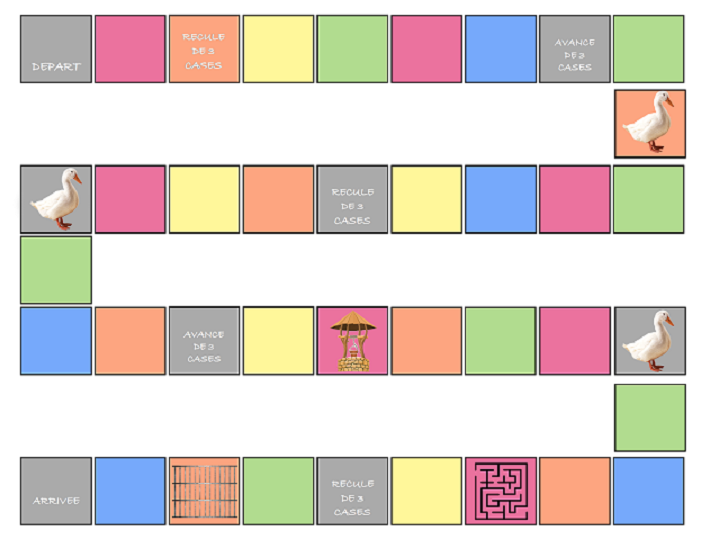
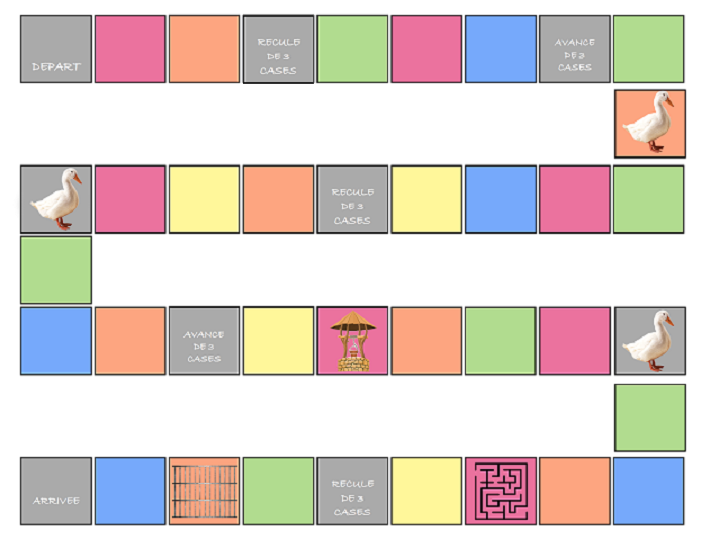
Add all traps (two don't work yet) Add text for indicate the players Minor update

Changed region(s): [[0.3361, 0.0, 0.4583, 0.1778], [0.2444, 0.0593, 0.3056, 0.1481]]

diff --git a/tray.py b/tray.py
@@ -5,6 +5,8 @@ import time
 from goose import Goose
 from constants import *
 
+BLACK = (0, 0, 0)
+
 
 class Tray:
     background_image_src = ""
@@ -30,6 +32,10 @@ class Tray:
     player_count = 0
     player_turn = 0
     players_grid = [1, 1, 1, 1]
+    player_trap_state = [0, 0, 0, 0]
+
+    trap_grids = ((4, 0), (8, 1), (10, 2), (15, 0), (19, 2), (23, 1), (25, 3), (29, 2), (33, 4), (35, 0), (37, 5))
+    win_grid = 39
 
     window = None
 
@@ -41,19 +47,25 @@ class Tray:
         self.player_count = player_count
         self.first_space = True
         self.fast_dice_animation = False
+        self.is_keyboard_deactivate = False
         pygame.init()
+        self.font = pygame.font.Font(None, 40)
+        self.text_to_render = None
         self.create_window()
 
     def update(self):
         self.check_pygame_events()
         self.draw_players()
+        if self.text_to_render is not None:
+            self.window.blit(self.text_to_render, (130, 255))
+        pygame.display.flip()
 
     def check_pygame_events(self):
         for event in pygame.event.get():
             if event.type == QUIT:
                 self.run = False
                 pass
-            if event.type == KEYDOWN:
+            if event.type == KEYDOWN and not self.is_keyboard_deactivate:
                 if event.key == K_SPACE:
                     if self.first_space:
                         self.first_space = False
@@ -67,9 +79,10 @@ class Tray:
         pygame.display.set_caption("Jeu de l'oie")
         self.background = pygame.image.load(self.background_image_src).convert_alpha()
         self.window.blit(self.background, (0, 0))
-        pygame.display.flip()
         self.init_players()
         self.init_dices()
+        self.text_to_render = self.font.render("Appuiez sur espace pour lancer le dé.", 1, BLACK)
+        pygame.display.flip()
 
     def init_dices(self):
         self.dice_face1 = pygame.image.load(dice_face1_src).convert_alpha()
@@ -90,41 +103,103 @@ class Tray:
             self.players[k].init_sprite_positions()
 
     def launch_dices(self):
-        dice1_number = random.randint(1, 6)
-        dice2_number = random.randint(1, 6)
-        to_forward = dice1_number + dice2_number
-        self.animate_launch_dices(dice1_number, dice2_number)
-        self.forward_player(to_forward, self.player_turn)
+        if self.player_trap_state[self.player_turn] == 1:
+            self.text_to_render = self.font.render(
+                "Le joueur " + str((self.player_turn + 1)) + " est bloqué et doit attendre.", 1, BLACK)
+            time.sleep(1.2)
+            return
+        else:
+            dice1_number = random.randint(1, 6)
+            # dice2_number = random.randint(1, 6)
+            to_forward = dice1_number
+            self.animate_launch_dices(to_forward)
+            self.forward_player(to_forward, self.player_turn)
         if self.player_turn >= 3:
             self.player_turn = 0
         else:
             self.player_turn += 1
 
     def forward_player(self, to_forward, player_turn):
-        for i in range(0, self.player_count):
-            if i == player_turn:
-                self.players[i].move(players_possibles_positions[i][to_forward + self.players_grid[i]])
-                self.players_grid[i] += to_forward
+        self.text_to_render = self.font.render(
+            "Le joueur " + str((player_turn + 1)) + " avance de " + str(to_forward) + " case(s)", 1, BLACK)
+        for k in range(to_forward):
+            self.players[player_turn].move(players_possibles_positions[player_turn][k + self.players_grid[player_turn]])
+            time.sleep(0.3)
+            self.update()
+        self.players_grid[player_turn] += to_forward
+        for k in self.trap_grids:
+            if k[0] == self.players_grid[player_turn]:
+                if k[1] == 3 or k[1] == 5:
+                    for j in range(self.player_count):
+                        if self.player_trap_state[j] == 1 and self.players_grid[j] == self.players_grid[player_turn]:
+                            self.player_trap_state[j] = 0
+                            self.player_trap_state[player_turn] = 1
+                    return
+                else:
+                    self.trap_player(k[1], player_turn, to_forward)
+        self.is_keyboard_deactivate = False
 
-    def animate_launch_dices(self, dice1_number, dice2_number):
+    def backward_player(self, to_backward, player_turn):
+        self.text_to_render = self.font.render(
+            "Le joueur " + str((player_turn + 1)) + " recule de " + str(to_backward) + " case(s)", 1, BLACK)
+        time.sleep(0.4)
+        for k in range(to_backward):
+            self.players[player_turn].move(players_possibles_positions[player_turn][-k + (self.players_grid[player_turn] - 2)])
+            time.sleep(0.3)
+            self.update()
+        self.players_grid[player_turn] -= to_backward
+        self.is_keyboard_deactivate = False
+
+    def trap_player(self, trap, player_turn, previous_forward):
+        if trap == 0:
+            self.backward_player(3, player_turn)
+            pass
+        elif trap == 1:
+            time.sleep(0.4)
+            self.forward_player(3, player_turn)
+            pass
+        elif trap == 2:
+            time.sleep(0.4)
+            self.forward_player(previous_forward, player_turn)
+            pass
+        elif trap == 3:
+            self.player_trap_state[player_turn] = 1
+            time.sleep(0.4)
+            self.is_keyboard_deactivate = False
+            pass
+        elif trap == 4:
+            time.sleep(0.4)
+            self.players[player_turn].move(players_possibles_positions[player_turn][12])
+            self.update()
+            self.is_keyboard_deactivate = False
+            pass
+        elif trap == 5:
+            self.player_trap_state[player_turn] = 1
+            time.sleep(0.4)
+            self.is_keyboard_deactivate = False
+            pass
+
+    def animate_launch_dices(self, dice1_number, dice2_number=None):
         wait_time = 0.1
+        self.text_to_render = None
+        self.update()
         for k in range(0, 4):
             for i in range(0, 6):
                 if self.fast_dice_animation:
                     self.window.blit(self.dice_faces[dice1_number - 1], self.dices_pos[0])
-                    self.window.blit(self.dice_faces[dice2_number - 1], self.dices_pos[1])
+                    # self.window.blit(self.dice_faces[dice2_number - 1], self.dices_pos[1])
                     pygame.display.flip()
                     break
                 dice1 = self.dice_faces[i]
-                dice2 = self.dice_faces[i]
+                # dice2 = self.dice_faces[i]
                 if k == 3:
-                    if i <= dice1_number:
+                    if i <= dice1_number - 1:
                         self.window.blit(dice1, self.dices_pos[0])
-                    if i <= dice2_number:
-                        self.window.blit(dice2, self.dices_pos[1])
+                    # if i <= dice2_number:
+                    # self.window.blit(dice2, self.dices_pos[1])
                 else:
                     self.window.blit(dice1, self.dices_pos[0])
-                    self.window.blit(dice2, self.dices_pos[1])
+                    # self.window.blit(dice2, self.dices_pos[1])
                 pygame.display.flip()
                 self.check_pygame_events()
                 time.sleep(wait_time)
@@ -134,10 +209,10 @@ class Tray:
                 break
             pass
         time.sleep(1.5)
+        self.is_keyboard_deactivate = True
         self.first_space = True
 
     def draw_players(self):
         self.players_sprite.update()
         self.window.blit(self.background, (0, 0))
         self.players_sprite.draw(self.window)
-        pygame.display.flip()
